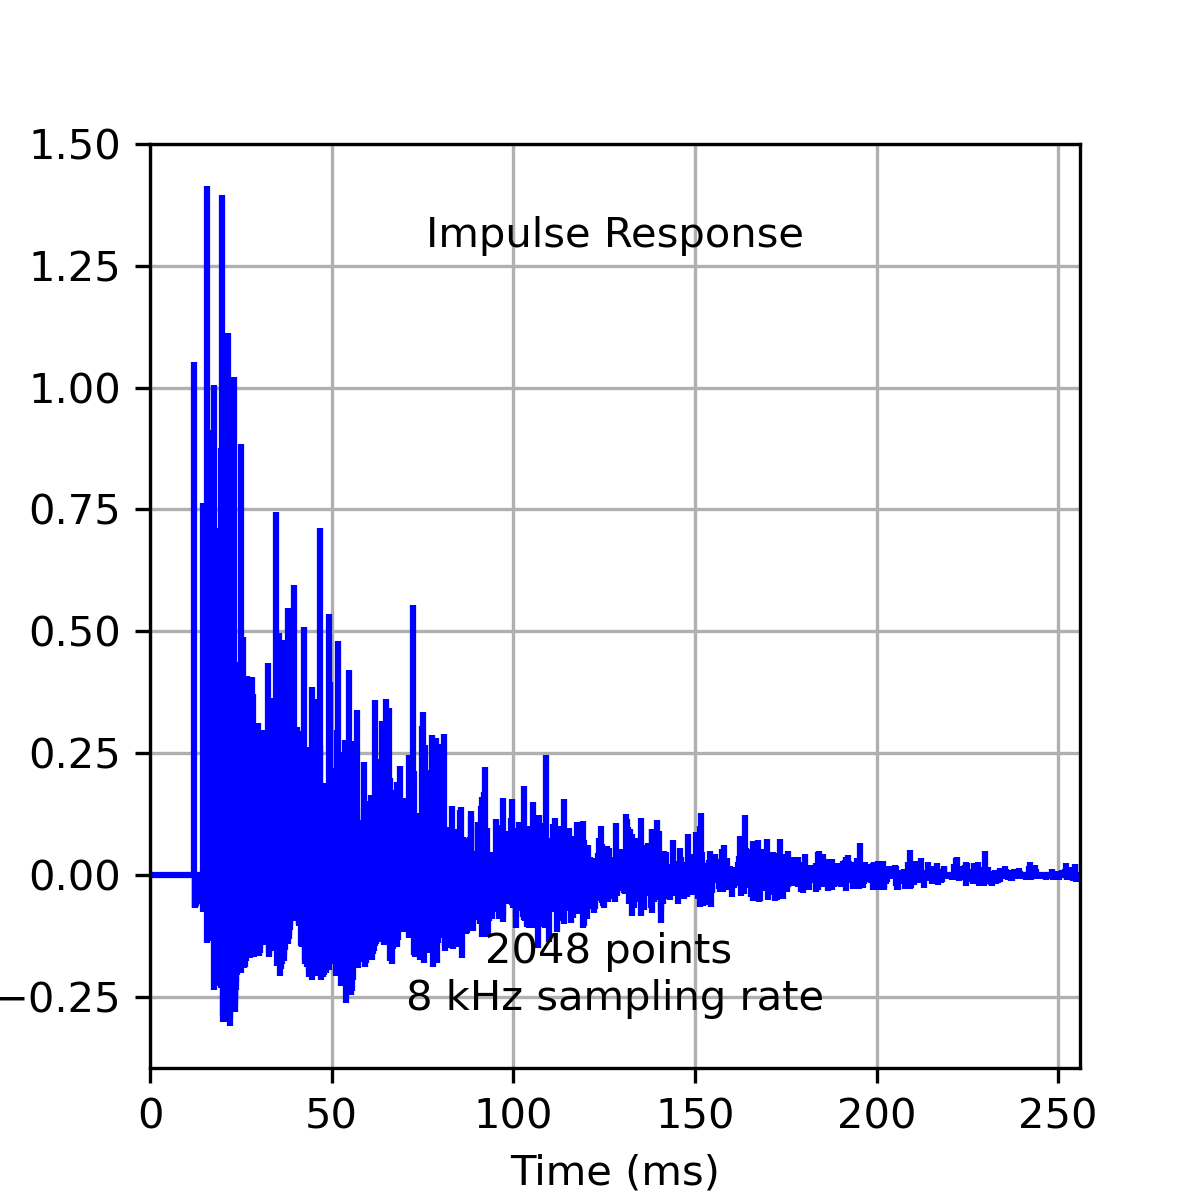
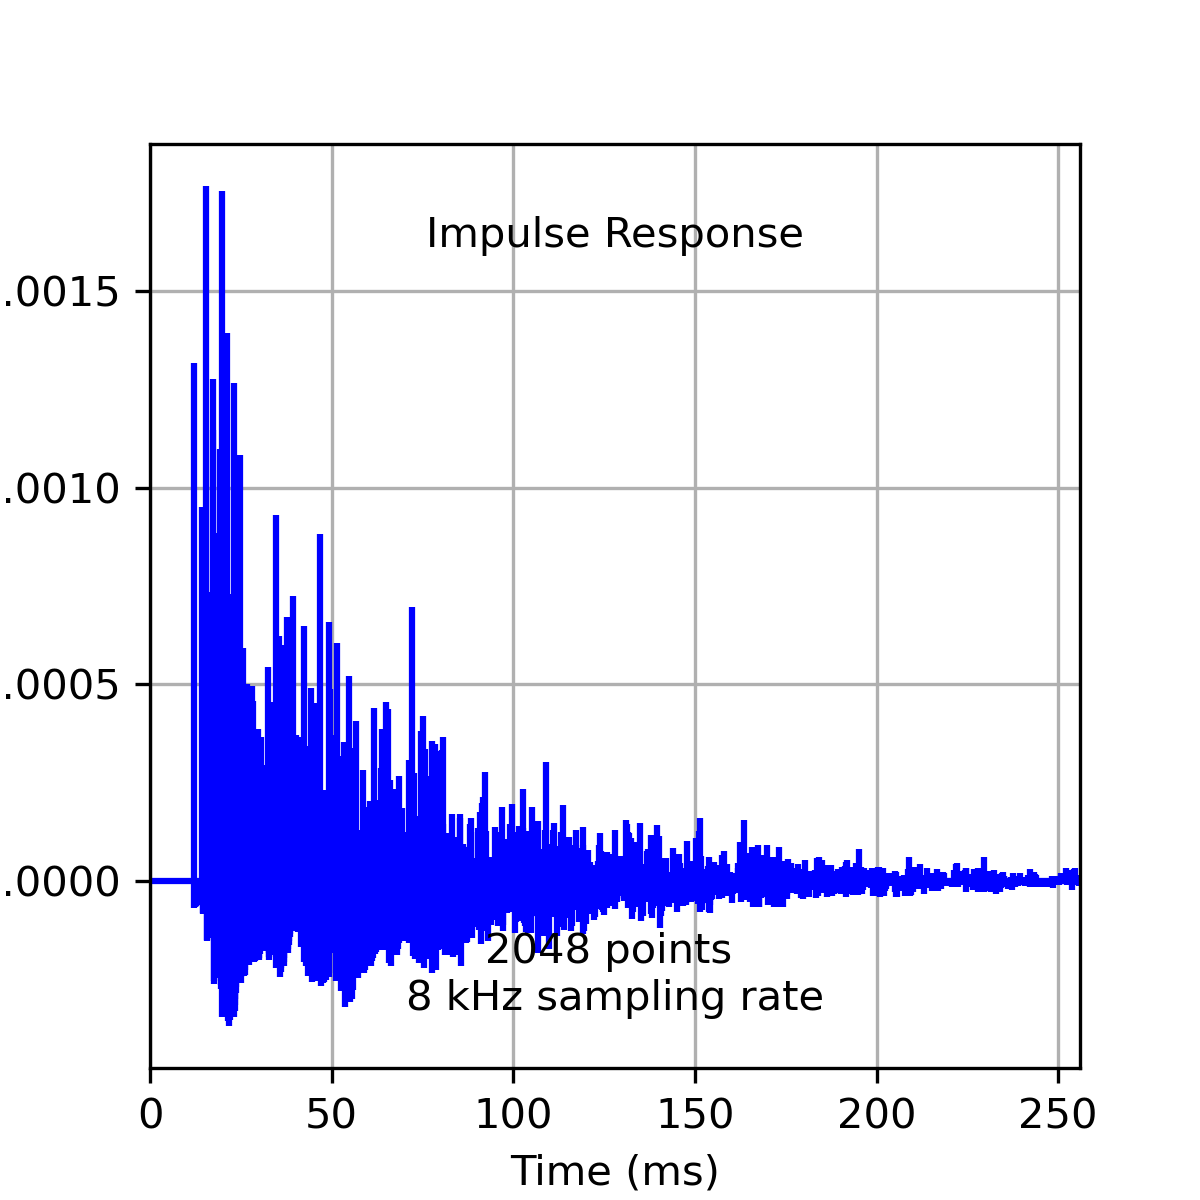
More fixes

diff --git a/freqrir/timerir.py b/freqrir/timerir.py
@@ -1,9 +1,9 @@
 import numpy as np
 from helper import distance_for_permutations, plot_time_rir
-from helper import sample_period_to_feet_per_ms
+from helper import sample_period_to_feet
 
 
-def time_rir(receiver, source, room_dimensions, betas, points):
+def time_rir(receiver, source, room_dimensions, betas, points, sample_frequency):
     """
     Calculate room impulse response in the time domain.
 
@@ -13,6 +13,7 @@ def time_rir(receiver, source, room_dimensions, betas, points):
         room_dimensions (list[float] with shape (3,)) : Room dimensions in sample periods (s).
         betas (float np-array with shape (3,2)) : Absorbtion coefficients. Walls: left, right, front, back, floor, ceiling.
         points (int) :  Number of points, which determines precisions of bins.
+        frequency (float) : Sampling frequency or sampling rate (Hz).
 
     Returns:
         pressures (list[complex]) : A pressure wave in the time domain.
@@ -27,78 +28,73 @@ def time_rir(receiver, source, room_dimensions, betas, points):
         pressures[0] = 1
         raise ValueError("Source and reciever are too close to eachother.")
 
-    N1 = int(np.ceil(points / (room_dimensions[0]*2)))
-    N2 = int(np.ceil(points / (room_dimensions[1]*2)))
-    N3 = int(np.ceil(points / (room_dimensions[2]*2)))
+    n1 = int(np.ceil(points / (room_dimensions[0]*2)))
+    n2 = int(np.ceil(points / (room_dimensions[1]*2)))
+    n3 = int(np.ceil(points / (room_dimensions[2]*2)))
 
     image_count = 0
 
-    for NX in range(-N1, N1+1):
-        for NY in range(-N2, N2+1):
-            for NZ in range(-N3, N3+1):
-                vector_triplet = np.array([NX, NY, NZ])
-                DELP = distance_for_permutations(
+    for nx in range(-n1, n1+1):
+        for ny in range(-n2, n2+1):
+            for nz in range(-n3, n3+1):
+                vector_triplet = np.array([nx, ny, nz])
+                delp = distance_for_permutations(
                     receiver, source, room_dimensions, vector_triplet)
                 # Image index for 8 image sources reflection (and original).
-                IO = 0
-                for L in range(0, 2):
-                    for J in range(0, 2):
-                        for K in range(0, 2):
-
+                io = 0
+                for l in range(0, 2):
+                    for j in range(0, 2):
+                        for k in range(0, 2):
+                            io += 1
                             # Impulse delay times 8, time (ms).
-                            ID = int(np.ceil(DELP[IO]) + .5)
-                            # ID = int(np.ceil((DELP[IO-1] - 59)))
+                            id = int(np.ceil(delp[io-1]) + .5)
 
-                            FDM1 = ID
-                            ID += 1
+                            fdm1 = id
+                            id += 1
 
                             # Cascade break
-                            if (ID + 1 > points):
+                            if (id > points):
                                 continue
 
                             image_count += 1
 
-                            GID = betas[0][0]**(np.abs(NX-L))
-                            GID *= betas[0][1]**(np.abs(NX))
-                            GID *= betas[1][0]**(np.abs(NY-J))
-                            GID *= betas[1][1]**(np.abs(NY))
-                            GID *= betas[2][0]**(np.abs(NZ-K))
-                            GID *= betas[2][1]**(np.abs(NZ))
-                            GID /= FDM1
-                            pressures[ID] = pressures[ID] + GID
+                            gid = betas[0][0]**(np.abs(nx-l))
+                            gid *= betas[0][1]**(np.abs(nx))
+                            gid *= betas[1][0]**(np.abs(ny-j))
+                            gid *= betas[1][1]**(np.abs(ny))
+                            gid *= betas[2][0]**(np.abs(nz-k))
+                            gid *= betas[2][1]**(np.abs(nz))
+                            gid /= fdm1
+                            pressures[id-1] = pressures[id-1] + gid
 
-                            IO += 1
+                        # Cascade break
+                        if (id > points):
+                            continue
+                    # Cascade break
+                    if (id > points):
+                        continue
 
-                    #     # Cascade break
-                    #     if (ID + 1 > points):
-                    #         break
-                    # # Cascade break
-                    # if (ID + 1 > points):
-                    #     break
-
-    pressures = high_pass_filter(pressures, points)
-    # Convert from sample periods to proper units.
-    C = 343.  # Speed of sound (m/s)
-    T = 0.1  # Time (ms)
-    print(f"Image count: {image_count}")
+    pressures = high_pass_filter(pressures, points, sample_frequency)
     pressures = np.array(pressures)
-    pressures = sample_period_to_feet_per_ms(pressures)
+    pressures = sample_period_to_feet(pressures, sample_frequency)
+    print(f"Image count: {image_count}")
     return pressures
 
 
-def high_pass_filter(pressures, points):
+def high_pass_filter(pressures, points, sample_frequency):
     """
     High-pass digital filter to wierd behaviour at low frequencies (i.e. 100 Hz).
 
     Args:
         pressures (list[complex]) : Pressure wave in the time domain.
         points (int) : The number of points.
-
+        sample_frequency (float) : Sampling frequency or sampling rate (Hz).
     Returns:
         pressures (list[complex]): Pressure wave with frequencies below cutoff removed.
     """
 
-    F = 100.  # Cut-off (Hz)
+    F = 0.01 * sample_frequency  # 0.01 of the sampling frequency (Allen 1979).
+    print(f"F: {F}")
     W = 2 * np.pi * F  # Frequency variable (radians).
     T = 1E-4  # Time (s)
     R1 = np.exp(-W*T)
@@ -125,9 +121,8 @@ if __name__ == "__main__":
     source = np.array([30, 100, 40])
     receiver = np.array([50, 10, 60])
     betas = np.reshape([0.9, 0.9, 0.9, 0.9, 0.7, 0.7], (3, 2))
-    print(f"betas {betas}")
-    frequency = 8000  # Sampling rate (Hz)
-    points = 2048  # Number of points.
+    points = 2048
+    sample_frequency = 8000  # Sampling rate (Hz)
     rir = time_rir(receiver, source, room_dimensions,
-                   betas, points)
-    plot_time_rir(rir, points, frequency, save=True)
+                   betas, points, sample_frequency)
+    plot_time_rir(rir, points, sample_frequency, save=True)

diff --git a/freqrir/helper.py b/freqrir/helper.py
@@ -3,7 +3,7 @@ import numpy as np
 
 
 def sample_period_to_meters(x, c=304.8, T=1E-4):
-    """ Convert a measurement from sample periods to meters. 
+    """ Convert a measurement from sample periods to meters.
 
     Args:
         x (float): A measurement in sample periods.
@@ -22,7 +22,7 @@ def sample_period_to_meters(x, c=304.8, T=1E-4):
 
 
 def meters_to_sample_periods(x, c=304.8, T=1E-4):
-    """ Convert a measurement from meters to sample periods. 
+    """ Convert a measurement from meters to sample periods.
 
     Args:
         x (float): A measurement in meters (m).
@@ -40,37 +40,39 @@ def meters_to_sample_periods(x, c=304.8, T=1E-4):
     return x
 
 
-def sample_period_to_feet_per_ms(x, c=1000, T=0.1):
-    """ Convert a measurement from sample periods to meters. 
+def sample_period_to_feet(x, sample_frequency, c=1000):
+    """ Convert a measurement from sample periods to meters.
 
     Args:
         x (float): A measurement in sample periods.
-        c (float): Speed of sound (m/s). Defaults to 1000 ft/ms (i.e. 1 304.8 m/s).
-        T (float): Sampling period (ms). Defaults to 0.1 s (i.e. 1E-4 s).
+        sample_frequency (int): Sampling rate (Hz). 
+        c (float, optional): Speed of sound (ft/s). Defaults to 1000 ft/ms (i.e. 304.8 m/s SI).
 
     Returns:
-        x (float): A measurement in meters (m).
+        x (float): A measurement in meters (feet).
 
     Examples:
-        >>> sample_period_to_meters(80) # 80 sample periods (s)
-        2.4383 # meters (m)
+        >>> sample_period_to_feet(80) # 80 sample periods (s)
+        8000.0 # meters (m)
     """
-    x = x * c * T
+    sample_period = (1 /
+                     sample_frequency)
+    x = x * c * sample_period
     return x
 
 
 def distance_for_permutations(receiver, source, room_dimensions, vector_triplet):
-    """ 
-    Computes the distances between the reciever and the eight image source permutations. 
+    """
+    Computes the distances between the reciever and the eight image source permutations.
 
     Args:
-        receiver (list[float]): Reciever position. 
-        source (list[float]): Source position. 
-        room_dimensions (list[float]): Room dimensions. 
+        receiver (list[float]): Reciever position.
+        source (list[float]): Source position.
+        room_dimensions (list[float]): Room dimensions.
         vector_triplet (list[float]): Vector triplet (n,l,m) (Allen 1979).
 
     Returns:
-        distances (list[float]): The distances between the reciever and the eight image source permutations.
+        distances (list[float] with shape (8,)): The distances between the reciever and the eight image source permutations.
     """
     # Add in mean radius to eight vectors to get total delay.
     r2l = 2 * np.array(vector_triplet) * np.array(room_dimensions)
@@ -86,13 +88,14 @@ def distance_for_permutations(receiver, source, room_dimensions, vector_triplet)
 
 
 def plot_time_rir(rir, points, f, save=False):
-    """ 
-    Plot room impulse repsonse in the time domain. 
+    """
+    Plot room impulse repsonse in the time domain.
 
     Args:
-        rir (list[complex]) : A pressure wave in the frequency domain. 
-        points (int): The number of points. 
+        rir (list[complex]) : A pressure wave in the frequency domain.
+        points (int): The number of points.
         f (int) : Sampling rate (Hz)
+        save (bool) : Whether to save the plot.
     """
 
     length = points / 8  # Length of sample (ms)
@@ -113,14 +116,15 @@ def plot_time_rir(rir, points, f, save=False):
     plt.show()
 
 
-def plot_frequency_rir(rir, points, frequency):
-    """ 
-    Plot room impulse repsonse in the frequency domain. 
+def plot_frequency_rir(rir, points, frequency, save=False):
+    """
+    Plot room impulse repsonse in the frequency domain.
 
     Args:
-        rir (list[complex]) : A pressure wave in the frequency domain. 
-        points (int): The number of points. 
+        rir (list[complex]) : A pressure wave in the frequency domain.
+        points (int): The number of points.
         frequency (int) : Sampling rate (Hz)
+        save (bool) : Whether to save the plot.
     """
 
     fs = np.linspace(0, frequency, 2048)
@@ -134,4 +138,6 @@ def plot_frequency_rir(rir, points, frequency):
              verticalalignment='center', transform=plt.gca().transAxes)
     plt.text(0.5, 0.1, f"{points} points \n{frequency//1000} kHz sampling rate",
              horizontalalignment='center', verticalalignment='center', transform=plt.gca().transAxes)
+    if save:
+        plt.savefig(f"freqrir.png", dpi=300)
     plt.show()

diff --git a/freqrir/freqrir.py b/freqrir/freqrir.py
@@ -30,49 +30,49 @@ def frequency_rir(receiver, source, room_dimensions, betas, points, frequency, c
     w = 2 * np.pi * frequency
     pressure = 0 + 0j
 
-    N1 = int(np.ceil(points / (room_dimensions[0]*2)))
-    N2 = int(np.ceil(points / (room_dimensions[1]*2)))
-    N3 = int(np.ceil(points / (room_dimensions[2]*2)))
+    n1 = int(np.ceil(points / (room_dimensions[0]*2)))
+    n2 = int(np.ceil(points / (room_dimensions[1]*2)))
+    n3 = int(np.ceil(points / (room_dimensions[2]*2)))
 
     image_count = 0
 
-    for NX in range(-N1, N1+1):
-        for NY in range(-N2, N2+1):
-            for NZ in range(-N3, N3+1):
-                vector_triplet = np.array([NX, NY, NZ])
-                DELP = distance_for_permutations(
+    for nx in range(-n1, n1+1):
+        for ny in range(-n2, n2+1):
+            for nz in range(-n3, n3+1):
+                vector_triplet = np.array([nx, ny, nz])
+                delp = distance_for_permutations(
                     receiver, source, room_dimensions, vector_triplet)
-                IO = 0
-                for L in range(0, 2):
-                    for J in range(0, 2):
-                        for K in range(0, 2):
+                io = 0
+                for l in range(0, 2):
+                    for j in range(0, 2):
+                        for k in range(0, 2):
+                            io += 1
                             # Distance in sample periods
-                            id = DELP[IO]
-                            # id = DELP[IO]
+                            id = delp[io-1]
                             # Distance in meters d(u,l).
                             d = sample_period_to_meters(id)
                             T = d / c  # Time delay T(.) (ms).
 
                             if (id > points):
-                                break
+                                continue
 
                             image_count += 1
 
                             # Attenuation factor A(.).
-                            A = betas[0][0]**(np.abs(NX-L))
-                            A *= betas[0][1]**(np.abs(NX))
-                            A *= betas[1][0]**(np.abs(NY-J))
-                            A *= betas[1][1]**(np.abs(NY))
-                            A *= betas[2][0]**(np.abs(NZ-K))
-                            A *= betas[2][1]**(np.abs(NZ))
+                            A = betas[0][0]**(np.abs(nx-l))
+                            A *= betas[0][1]**(np.abs(nx))
+                            A *= betas[1][0]**(np.abs(ny-j))
+                            A *= betas[1][1]**(np.abs(ny))
+                            A *= betas[2][0]**(np.abs(nz-k))
+                            A *= betas[2][1]**(np.abs(nz))
                             A /= 4 * np.pi * d
 
                             pressure += A * np.exp(- 1j * w * T)
-                            IO += 1
-                        if (id > points):
-                            break
-                    if (id > points):
-                        break
+
+                    #     if (id > points):
+                    #         break
+                    # if (id > points):
+                    #     break
     print(f"Image count: {image_count}")
     return pressure
 
